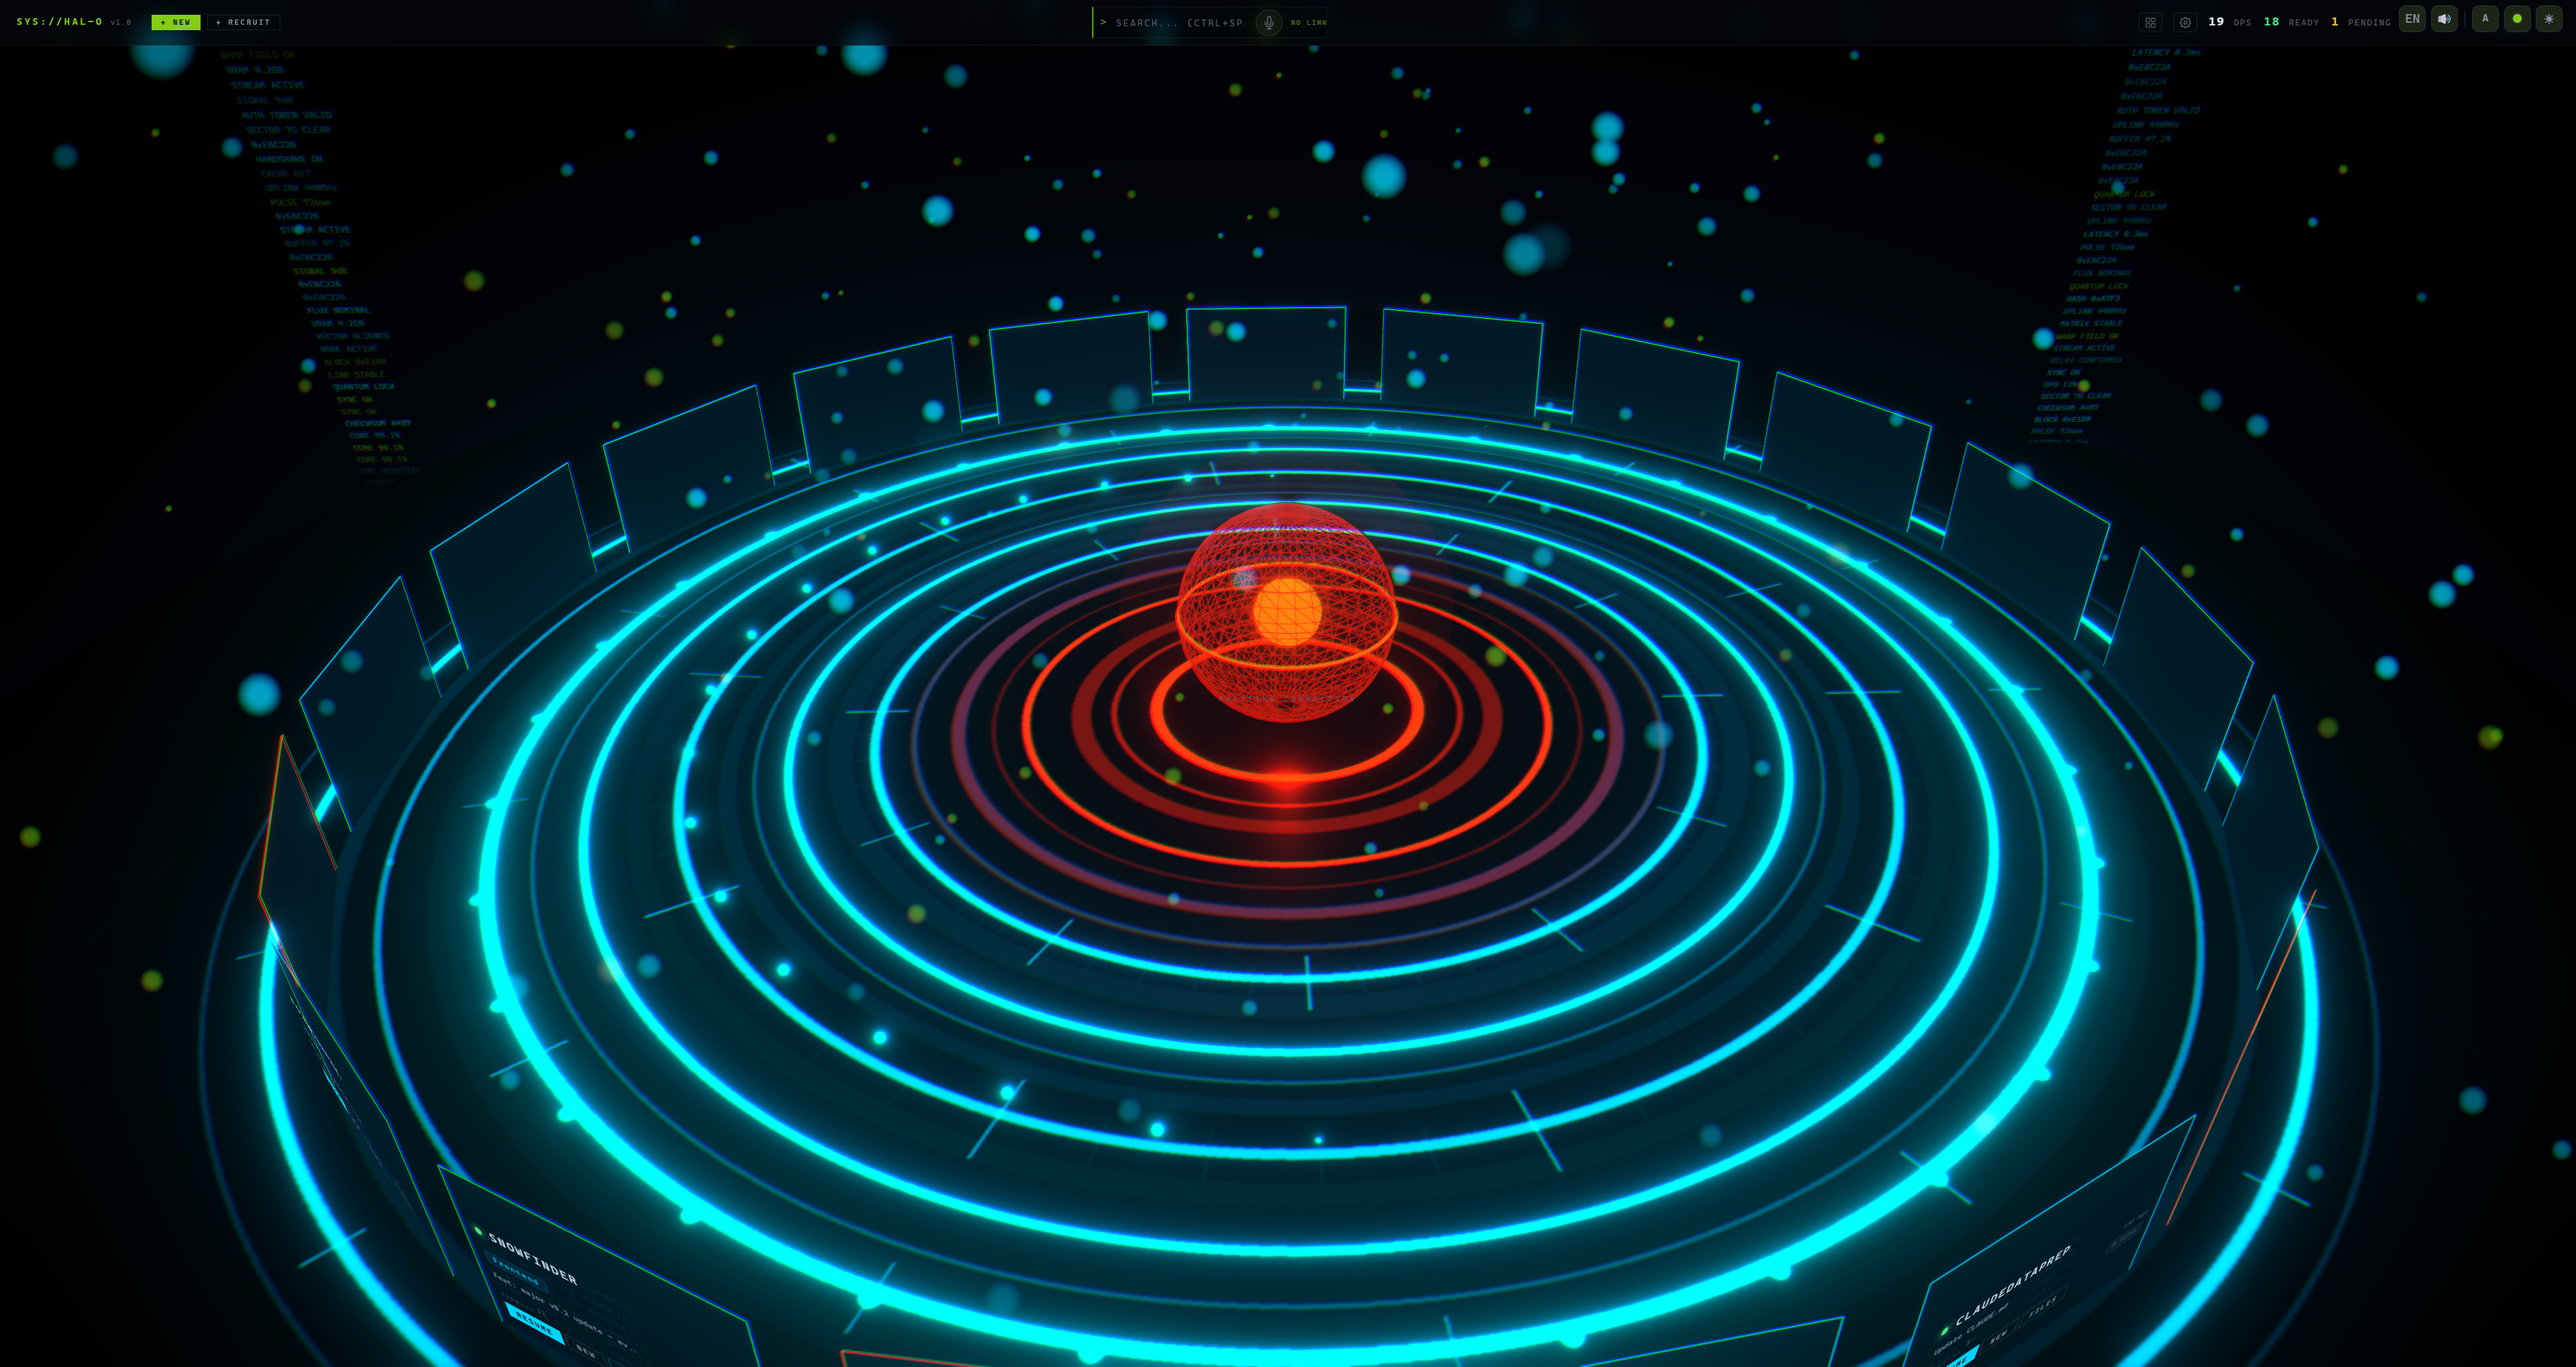
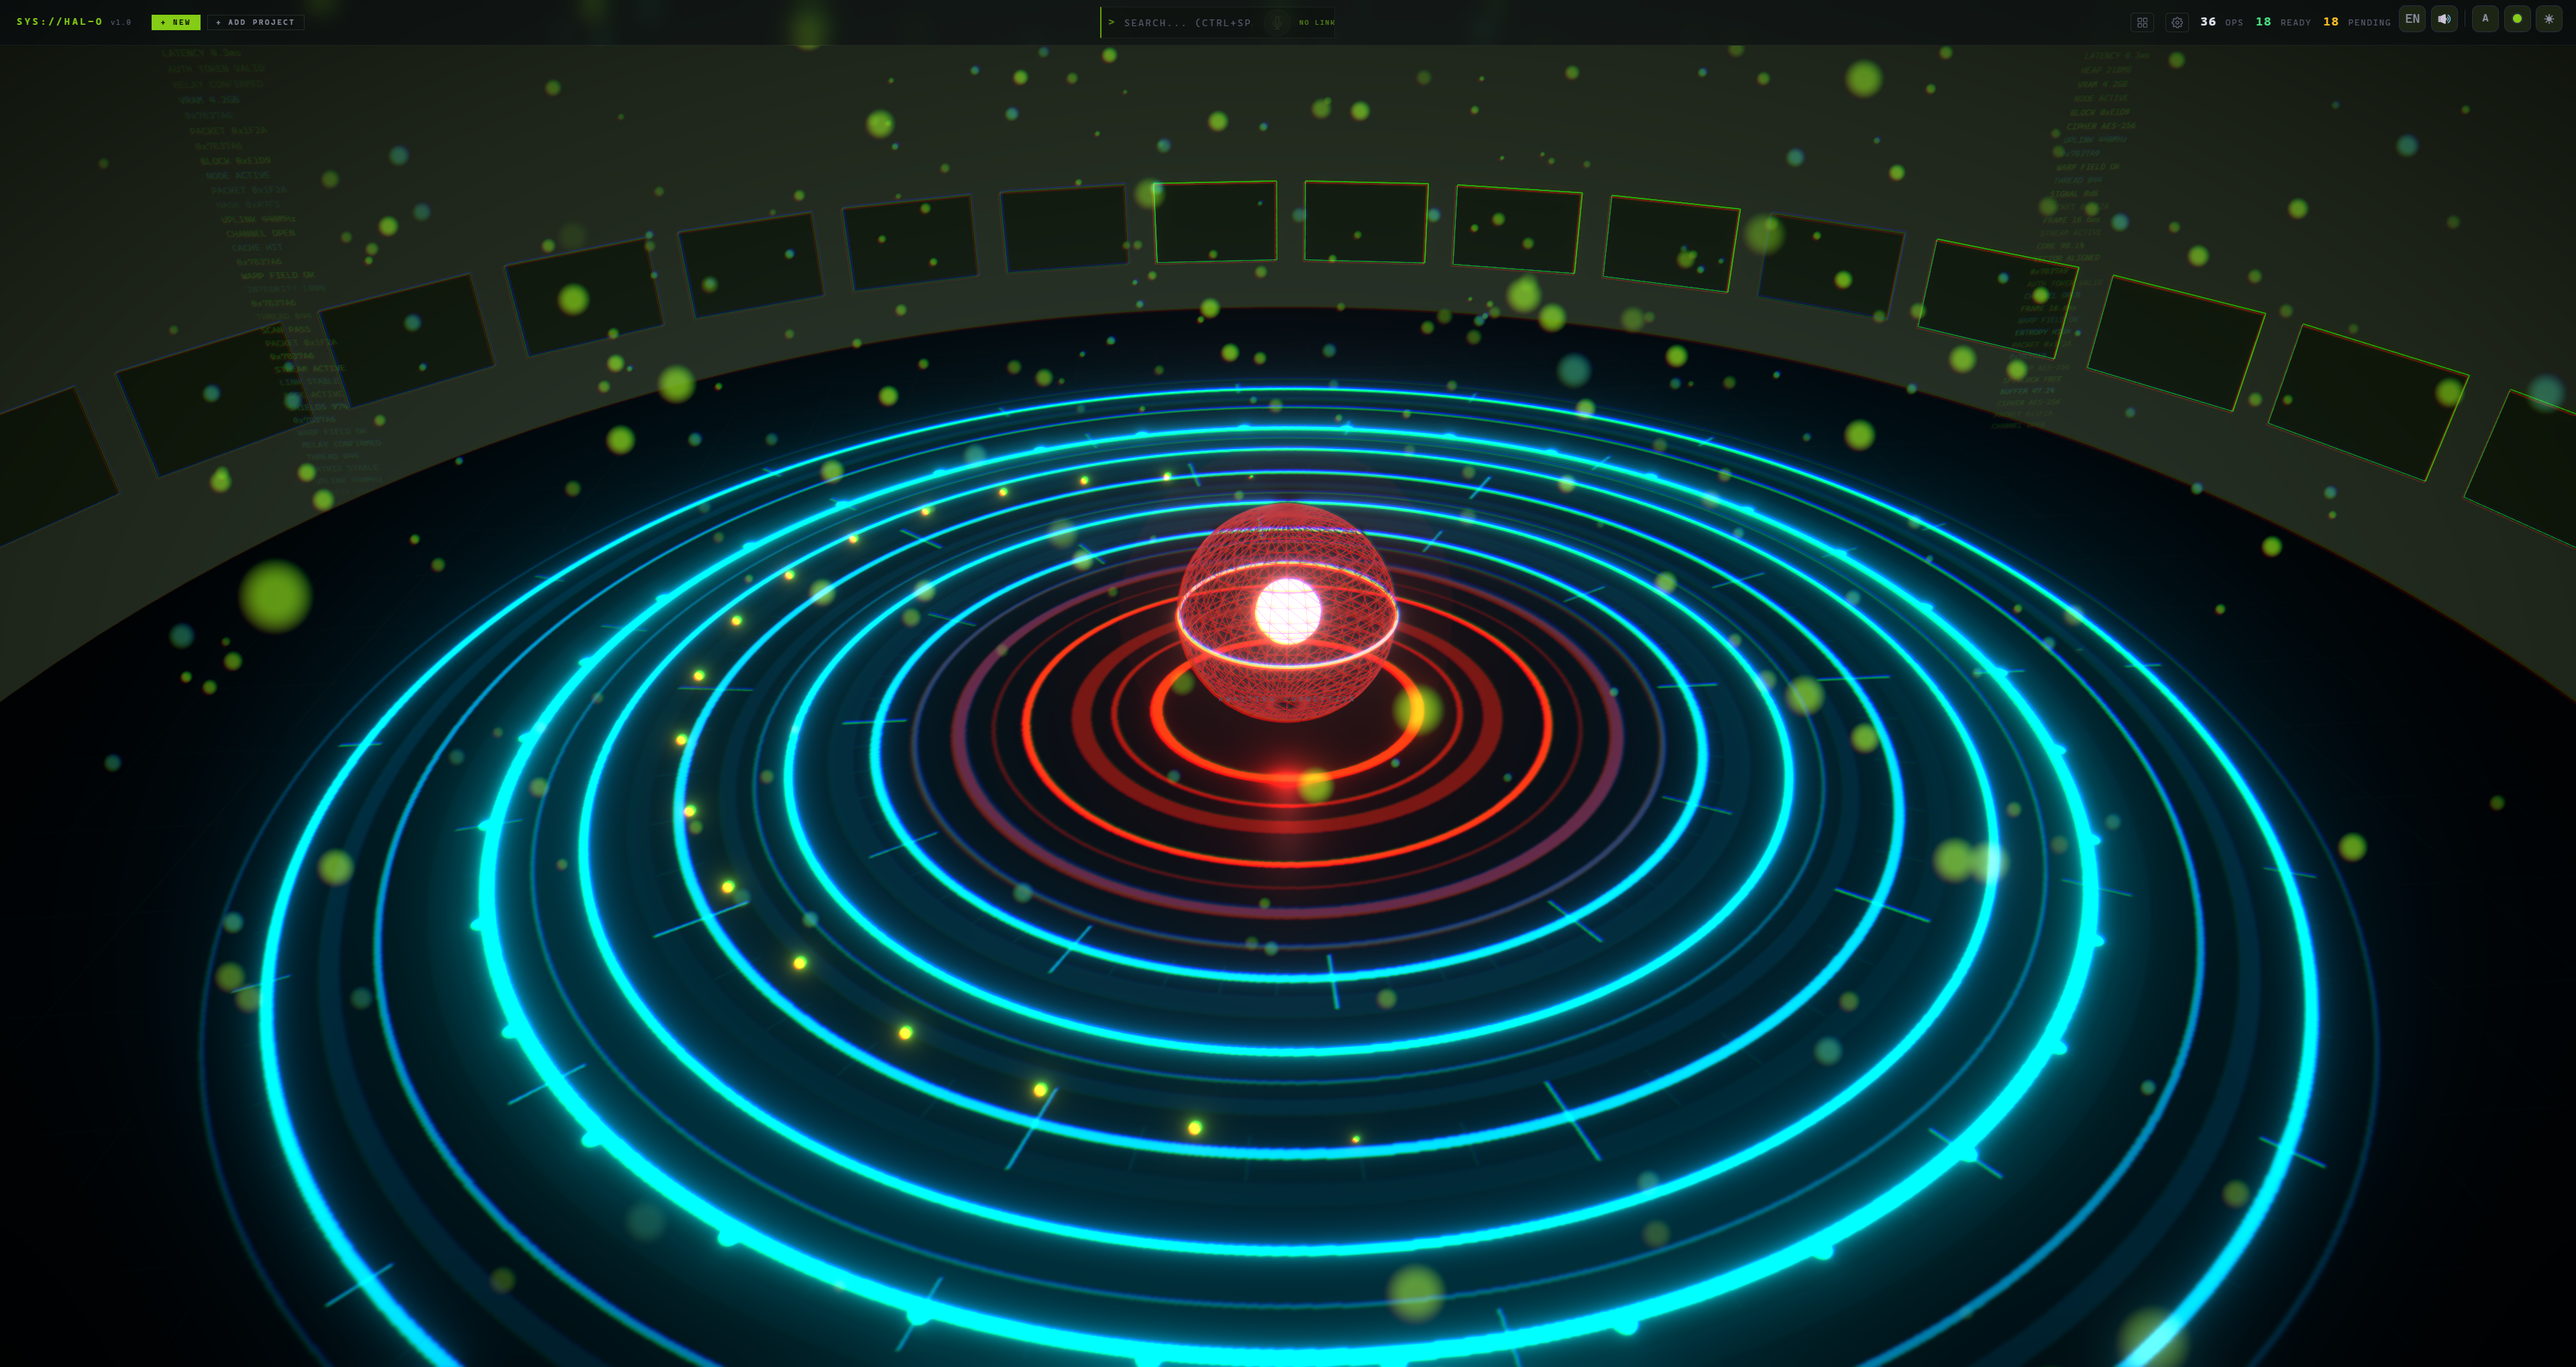
fix: wire screenOpacity setting to ScreenPanel in PBR and Holographic renderers (B7)
The screen opacity slider in settings had no effect because PbrHoloScene
and HolographicScene never forwarded the value to ScreenPanel. Also
renames the label from "SCREEN OPACITY" to "SCREENS OPACITY".

diff --git a/src/renderer/src/components/three/PbrHoloScene.tsx b/src/renderer/src/components/three/PbrHoloScene.tsx
@@ -605,9 +605,10 @@ interface Props {
   onCameraMove?: (distance: number, angle: number) => void
   blockedInput?: boolean
   onProjectContextMenu?: (x: number, y: number, projectPath: string, projectName: string) => void
+  screenOpacity?: number
 }
 
-export function PbrHoloScene({ projects, listening, isFullySetup, onOpenTerminal, halOnline, layoutId = 'default', terminalCount = 0, vfxFrequency = 0, groups = [], assignments = {}, camera = DEFAULT_CAMERA, themeId = 'tactical', onCameraMove, blockedInput = false, onProjectContextMenu }: Props) {
+export function PbrHoloScene({ projects, listening, isFullySetup, onOpenTerminal, halOnline, layoutId = 'default', terminalCount = 0, vfxFrequency = 0, groups = [], assignments = {}, camera = DEFAULT_CAMERA, themeId = 'tactical', onCameraMove, blockedInput = false, onProjectContextMenu, screenOpacity = 1 }: Props) {
   const [hoveredId, setHoveredId] = useState<string | null>(null)
   const flybyRef = useRef<SpaceshipFlybyHandle>(null)
   const prevTermCountRef = useRef(terminalCount)
@@ -758,6 +759,7 @@ export function PbrHoloScene({ projects, listening, isFullySetup, onOpenTerminal
               groupColor={projectGroupColors[i]}
               healthStatus={(project as any).configLevel === 'bare' ? 'neutral' : !isFullySetup(project) ? 'warning' : 'ok'}
               demoStats={project.demoStats}
+              screenOpacity={screenOpacity}
               onContextMenu={onProjectContextMenu ? (e: React.MouseEvent) => {
                 e.preventDefault()
                 onProjectContextMenu(e.clientX, e.clientY, project.path, project.name)

diff --git a/src/renderer/src/components/three/HolographicScene.tsx b/src/renderer/src/components/three/HolographicScene.tsx
@@ -214,9 +214,10 @@ interface Props {
   isFullySetup: (p: ProjectInfo) => boolean
   onOpenTerminal?: (path: string, name: string, resume: boolean) => void
   layoutId?: string
+  screenOpacity?: number
 }
 
-export function HolographicScene({ projects, listening, isFullySetup, onOpenTerminal, layoutId = 'default' }: Props) {
+export function HolographicScene({ projects, listening, isFullySetup, onOpenTerminal, layoutId = 'default', screenOpacity = 1 }: Props) {
   const [hoveredId, setHoveredId] = useState<string | null>(null)
 
   const screenPositions = useMemo(() => {
@@ -287,6 +288,7 @@ export function HolographicScene({ projects, listening, isFullySetup, onOpenTerm
             onRunApp={project.runCmd ? () => window.api.runApp(project.path, project.runCmd) : undefined}
             healthStatus={(project as any).configLevel === 'bare' ? 'neutral' : !isFullySetup(project) ? 'warning' : 'ok'}
             demoStats={project.demoStats}
+            screenOpacity={screenOpacity}
           />
         )
       })}

diff --git a/src/renderer/src/components/ProjectHub.tsx b/src/renderer/src/components/ProjectHub.tsx
@@ -349,6 +349,7 @@ export function ProjectHub({ onNewProject, onConvertProject, onOpenTerminal, voi
           themeId={threeTheme}
           onCameraMove={onCameraMove}
           blockedInput={voiceBlocked}
+          screenOpacity={screenOpacity}
           onProjectContextMenu={(x, y, path, name) => setCtxMenu({ x, y, projectPath: path, projectName: name })}
         />
         <HudTopbar
@@ -391,6 +392,7 @@ export function ProjectHub({ onNewProject, onConvertProject, onOpenTerminal, voi
           isFullySetup={isFullySetup}
           onOpenTerminal={onOpenTerminal}
           layoutId={layoutId}
+          screenOpacity={screenOpacity}
         />
 
         <HudTopbar

diff --git a/src/renderer/src/components/SettingsMenu.tsx b/src/renderer/src/components/SettingsMenu.tsx
@@ -279,7 +279,7 @@ export function SettingsMenu({ hubFontSize, termFontSize, voiceOut, voiceProfile
           </div>
 
           <div className="hal-settings-row">
-            <span className="hal-settings-label">SCREEN OPACITY</span>
+            <span className="hal-settings-label">SCREENS OPACITY</span>
             <div className="hal-settings-control" style={{ display: 'flex', alignItems: 'center', gap: 8 }}>
               <input
                 type="range"
